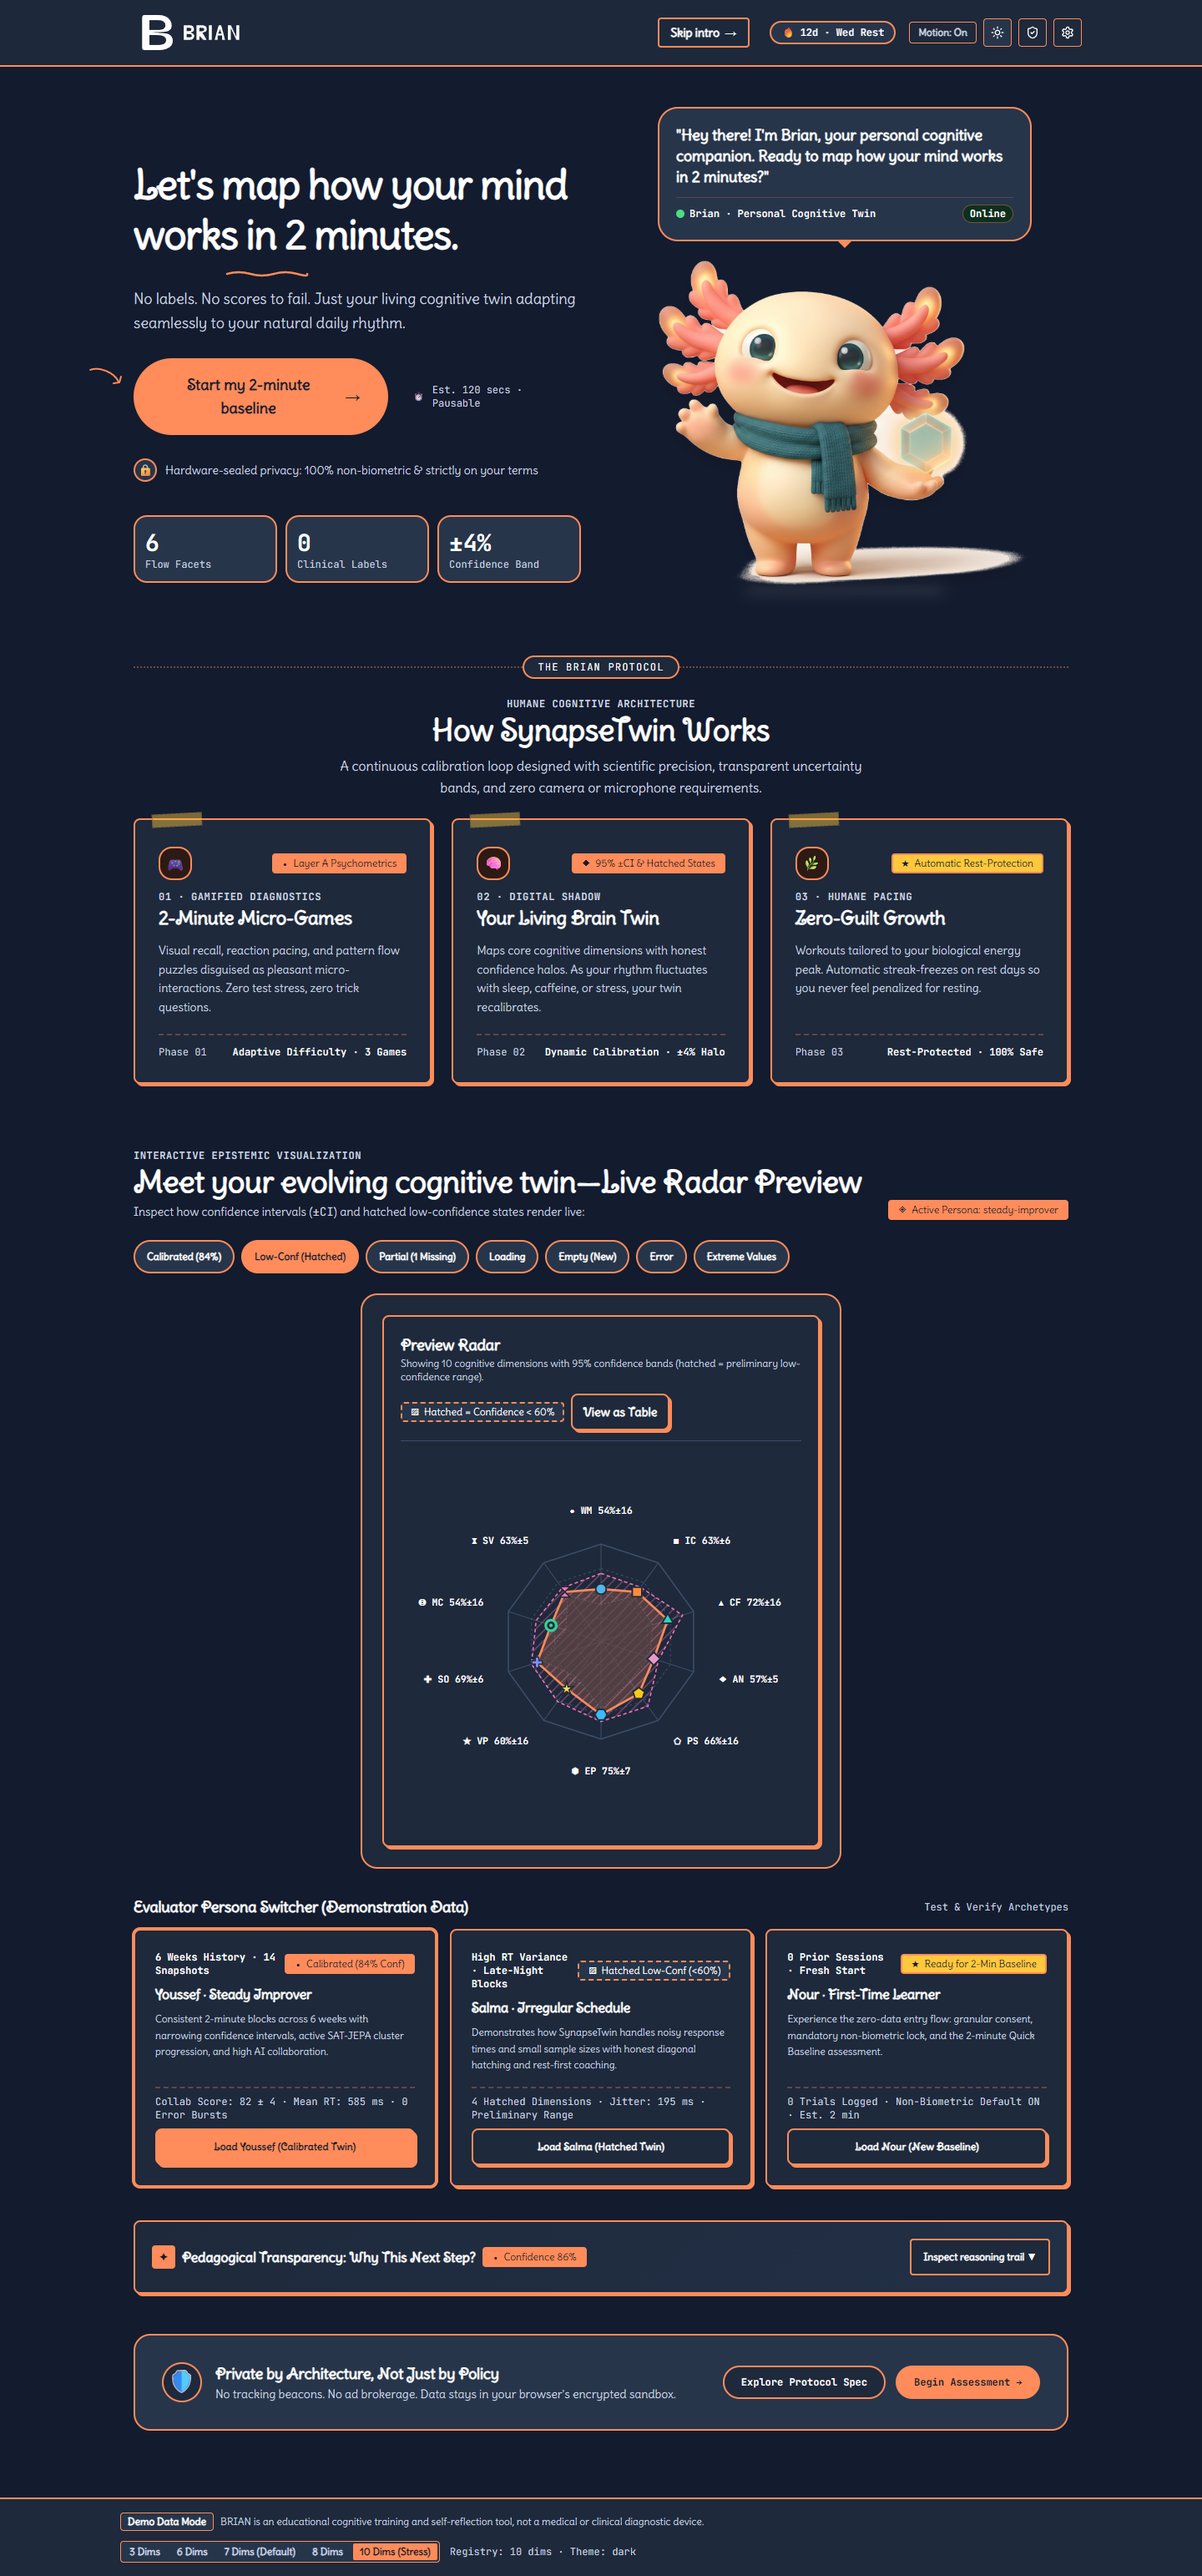
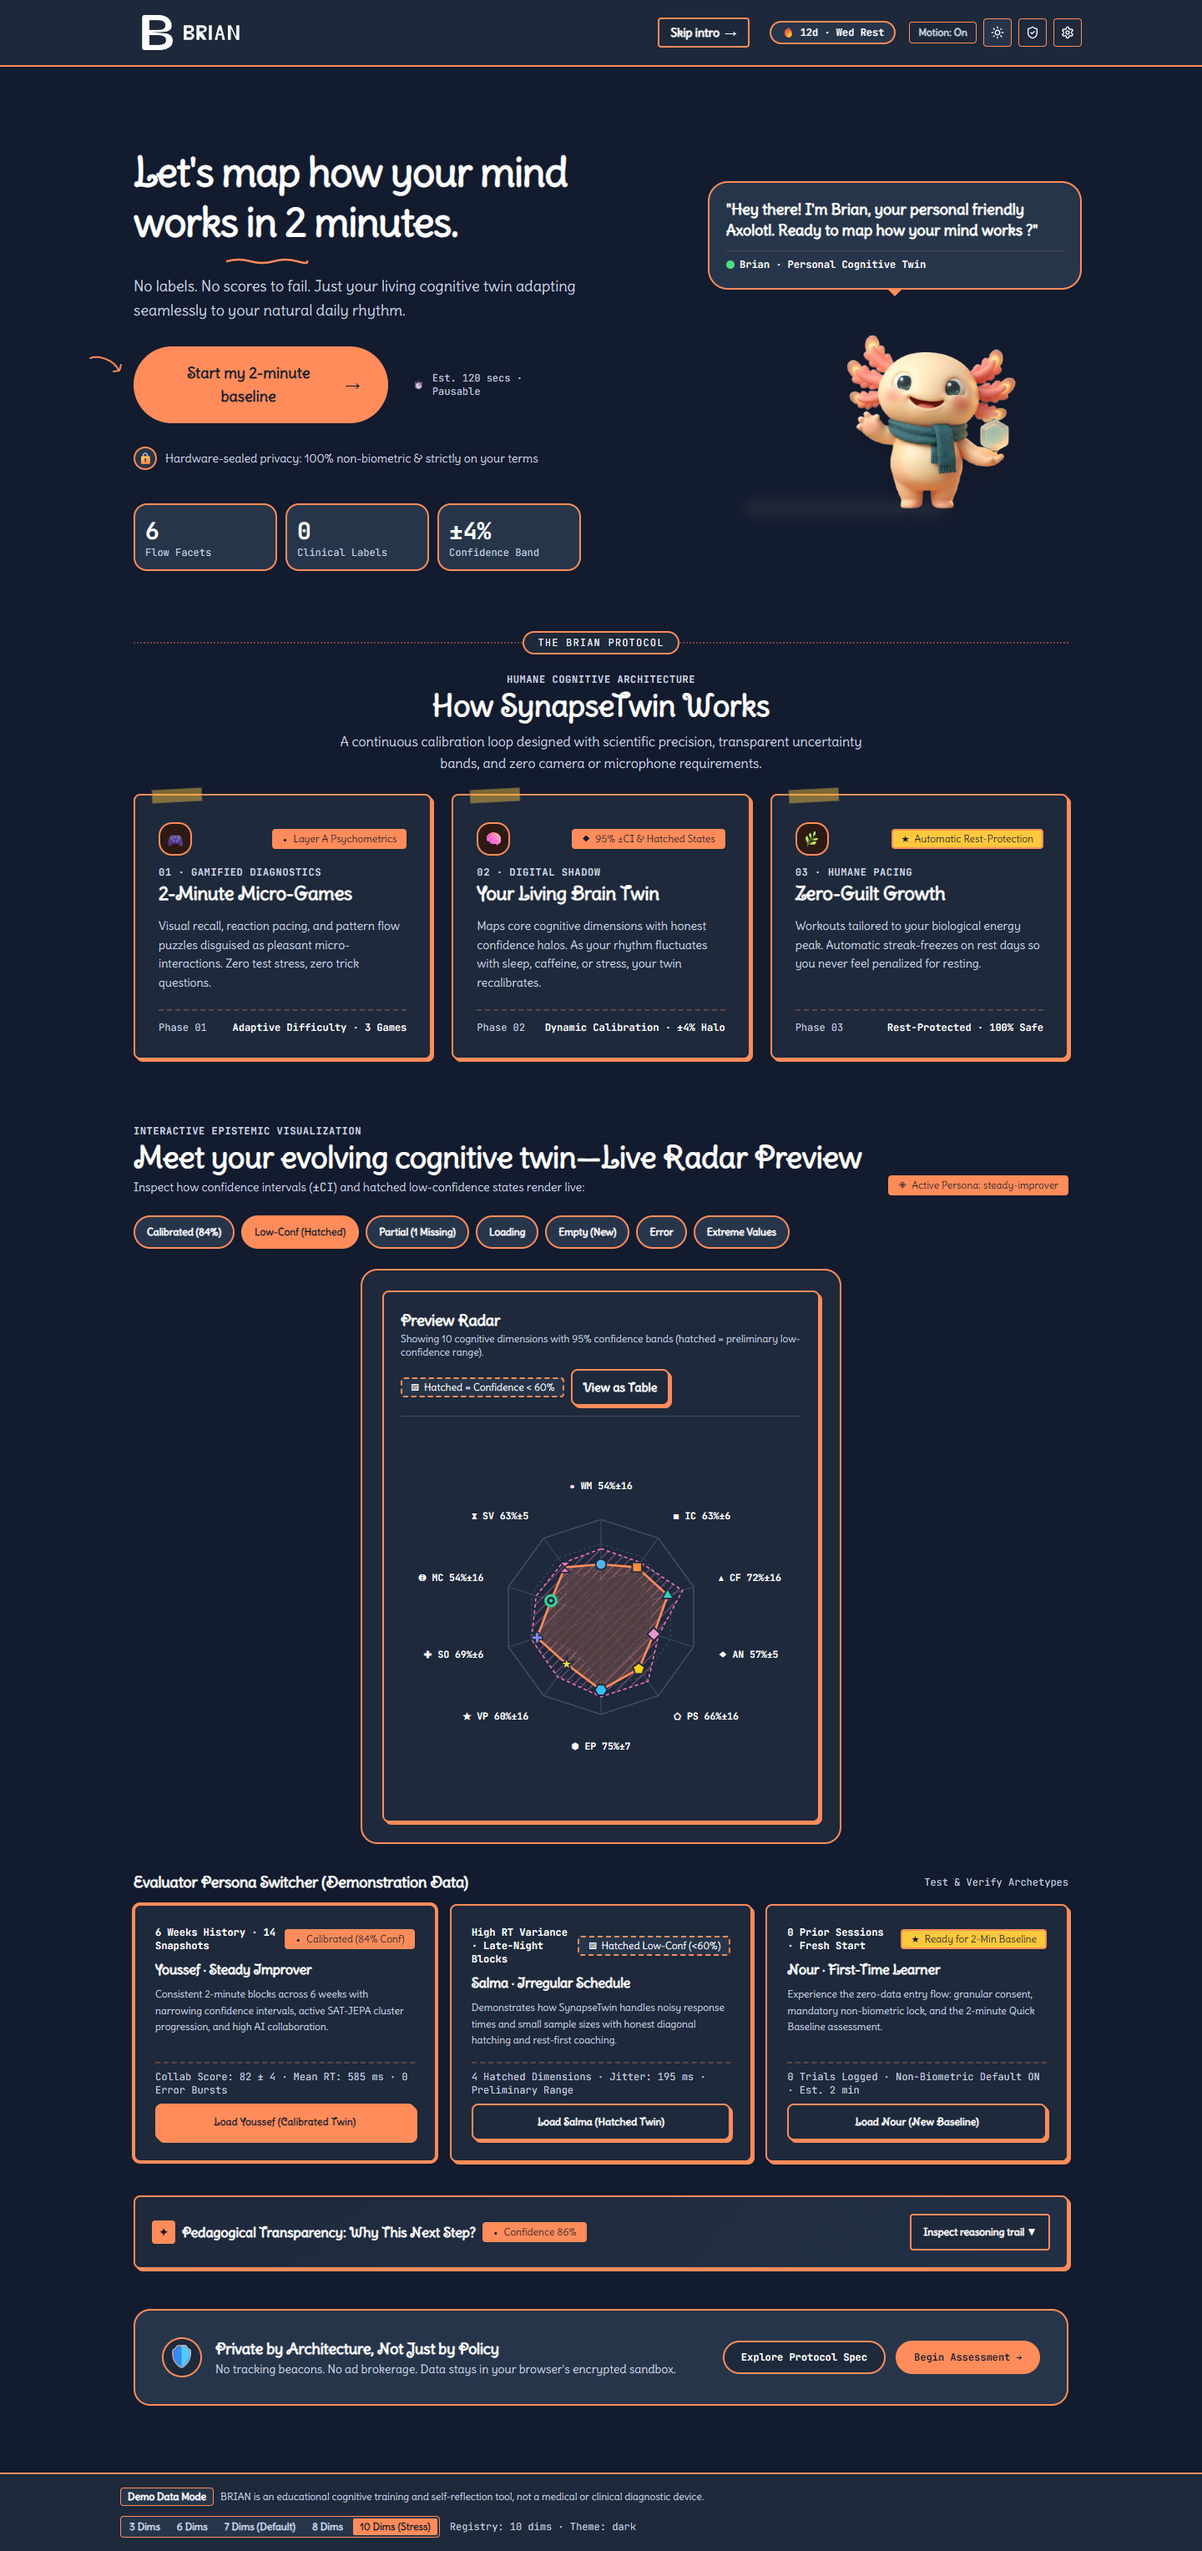
feat(welcome): update mascot to brian-waving-nobg and confirm badge removal

diff --git a/frontend/src/pages/WelcomePage.tsx b/frontend/src/pages/WelcomePage.tsx
@@ -12,7 +12,7 @@ import { Badge } from '../components/ui/Badge'
 import { Button } from '../components/ui/Button'
 import { Card } from '../components/ui/Card'
 import { DoodleSquiggle, DoodleArrow } from '../components/ui/DoodleDecorations'
-import brianWavingImg from '../assets/mascot/brian-waving.png'
+import brianWavingImg from '../assets/mascot/brian-waving-nobg.png'
 
 type HeroPreviewState =
   | 'calibrated'
@@ -266,18 +266,16 @@ export default function WelcomePage() {
         <div className="lg:col-span-6 relative flex flex-col items-center justify-center pt-2">
           <div className="relative w-full max-w-lg mx-auto flex flex-col items-center">
             {/* Brian's Aesthetic Speech Bubble */}
-            <div className="relative mb-3 sm:mb-4 max-w-md w-full bg-surface-raised p-4 sm:p-5 rounded-3xl border-2 border-border-strong shadow-doodle transition-all hover:-translate-y-0.5">
+            <div className="relative mb-3 sm:mb-4 max-w-md w-full bg-surface-raised p-4 sm:p-5 rounded-3xl border-2 border-border-strong shadow-doodle transition-all hover:-translate-y-0.5" style={{ transform: 'translate(60px, 20px)' }}>
               <p className="font-sans text-base sm:text-lg text-ink font-semibold leading-snug">
-                "Hey there! I'm Brian, your personal cognitive companion. Ready to map how your mind works in 2 minutes?"
+                "Hey there! I'm Brian, your personal friendly Axolotl. Ready to map how your mind works ?"
               </p>
               <div className="mt-3 flex items-center justify-between font-mono text-xs text-ink-muted pt-2 border-t border-border-strong/20">
                 <span className="flex items-center gap-1.5 font-semibold text-ink">
                   <span className="w-2.5 h-2.5 rounded-pill bg-success animate-pulse" />
                   Brian · Personal Cognitive Twin
                 </span>
-                <span className="px-2 py-0.5 rounded-pill bg-success-subtle text-ink font-bold text-xs border border-border-strong/40">
-                  Online
-                </span>
+
               </div>
               {/* Tactical Speech Pointer pointing down towards Brian */}
               <div
@@ -298,7 +296,8 @@ export default function WelcomePage() {
               <img
                 src={brianWavingImg}
                 alt="Brian the Axolotl mascot waving cheerfully"
-                className="w-full max-w-[360px] sm:max-w-[420px] lg:max-w-[460px] h-auto object-contain drop-shadow-xl select-none transition-transform duration-300 hover:scale-105"
+                style={{ transform: 'translate(100px, 25px)' }}
+                className="w-full max-w-[360px] sm:max-w-[420px] lg:max-w-[480px] h-auto object-contain drop-shadow-xl select-none transition-transform duration-300 hover:scale-105"
               />
 
               {/* Subtle grounding contact shadow */}
@@ -393,163 +392,163 @@ export default function WelcomePage() {
         aria-labelledby="radar-preview-heading"
         className="pt-6 space-y-6"
       >
-    <div className="flex flex-wrap items-end justify-between gap-3">
-      <div>
-        <span className="font-mono text-xs font-bold uppercase tracking-wider text-ink-muted">
-          Interactive Epistemic Visualization
-        </span>
-        <h2
-          id="radar-preview-heading"
-          className="font-display text-2xl sm:text-3xl font-bold text-ink"
+        <div className="flex flex-wrap items-end justify-between gap-3">
+          <div>
+            <span className="font-mono text-xs font-bold uppercase tracking-wider text-ink-muted">
+              Interactive Epistemic Visualization
+            </span>
+            <h2
+              id="radar-preview-heading"
+              className="font-display text-2xl sm:text-3xl font-bold text-ink"
+            >
+              Meet your evolving cognitive twin—Live Radar Preview
+            </h2>
+            <p className="text-sm text-ink-muted mt-1">
+              Inspect how confidence intervals (<code className="font-mono">±CI</code>) and hatched low-confidence states render live:
+            </p>
+          </div>
+          <Badge tone="brand" glyph="◈">
+            Active Persona: {activePersona}
+          </Badge>
+        </div>
+
+        {/* Interactive Preview State Switcher Buttons */}
+        <div
+          role="group"
+          aria-label="Hero Brain Twin preview state switcher"
+          className="flex flex-wrap gap-2"
         >
-          Meet your evolving cognitive twin—Live Radar Preview
-        </h2>
-        <p className="text-sm text-ink-muted mt-1">
-          Inspect how confidence intervals (<code className="font-mono">±CI</code>) and hatched low-confidence states render live:
-        </p>
-      </div>
-      <Badge tone="brand" glyph="◈">
-        Active Persona: {activePersona}
-      </Badge>
-    </div>
+          {(
+            [
+              { id: 'calibrated', label: 'Calibrated (84%)' },
+              { id: 'low-confidence', label: 'Low-Conf (Hatched)' },
+              { id: 'partial', label: 'Partial (1 Missing)' },
+              { id: 'loading', label: 'Loading' },
+              { id: 'empty', label: 'Empty (New)' },
+              { id: 'error', label: 'Error' },
+              { id: 'extreme-text', label: 'Extreme Values' },
+            ] as const
+          ).map((tab) => (
+            <button
+              key={tab.id}
+              type="button"
+              aria-pressed={previewState === tab.id}
+              onClick={() => setPreviewState(tab.id)}
+              className={`focus-ring min-h-10 px-3.5 py-1.5 rounded-pill border-2 border-border-strong text-xs font-bold cursor-pointer transition-colors shadow-doodle-sm ${previewState === tab.id
+                ? 'bg-brand text-brand-ink'
+                : 'bg-surface-raised text-ink hover:bg-brand-subtle'
+                }`}
+            >
+              {tab.label}
+            </button>
+          ))}
+        </div>
 
-  {/* Interactive Preview State Switcher Buttons */ }
-  <div
-    role="group"
-    aria-label="Hero Brain Twin preview state switcher"
-    className="flex flex-wrap gap-2"
-  >
-    {(
-      [
-        { id: 'calibrated', label: 'Calibrated (84%)' },
-        { id: 'low-confidence', label: 'Low-Conf (Hatched)' },
-        { id: 'partial', label: 'Partial (1 Missing)' },
-        { id: 'loading', label: 'Loading' },
-        { id: 'empty', label: 'Empty (New)' },
-        { id: 'error', label: 'Error' },
-        { id: 'extreme-text', label: 'Extreme Values' },
-      ] as const
-    ).map((tab) => (
-      <button
-        key={tab.id}
-        type="button"
-        aria-pressed={previewState === tab.id}
-        onClick={() => setPreviewState(tab.id)}
-        className={`focus-ring min-h-10 px-3.5 py-1.5 rounded-pill border-2 border-border-strong text-xs font-bold cursor-pointer transition-colors shadow-doodle-sm ${previewState === tab.id
-            ? 'bg-brand text-brand-ink'
-            : 'bg-surface-raised text-ink hover:bg-brand-subtle'
-          }`}
-      >
-        {tab.label}
-      </button>
-    ))}
-  </div>
+        {/* Live Interactive Radar View */}
+        <div className="w-full max-w-xl mx-auto p-4 sm:p-6 bg-surface rounded-2xl border-2 border-border-strong shadow-doodle-lg">
+          <UncertaintyRadar
+            dimensions={activeDimensions}
+            estimates={estimates}
+            title="Preview Radar"
+          />
+        </div>
 
-  {/* Live Interactive Radar View */ }
-  <div className="w-full max-w-xl mx-auto p-4 sm:p-6 bg-surface rounded-2xl border-2 border-border-strong shadow-doodle-lg">
-    <UncertaintyRadar
-      dimensions={activeDimensions}
-      estimates={estimates}
-      title="Preview Radar"
-    />
-  </div>
+        {/* Evaluator Persona Launchers Grid */}
+        <div className="space-y-3 pt-2">
+          <div className="flex items-center justify-between">
+            <h3 className="font-display text-lg font-bold text-ink">
+              Evaluator Persona Switcher (Demonstration Data)
+            </h3>
+            <span className="text-xs text-ink-muted font-mono">
+              Test &amp; Verify Archetypes
+            </span>
+          </div>
 
-  {/* Evaluator Persona Launchers Grid */ }
-  <div className="space-y-3 pt-2">
-    <div className="flex items-center justify-between">
-      <h3 className="font-display text-lg font-bold text-ink">
-        Evaluator Persona Switcher (Demonstration Data)
-      </h3>
-      <span className="text-xs text-ink-muted font-mono">
-        Test &amp; Verify Archetypes
-      </span>
-    </div>
+          <div className="grid grid-cols-1 md:grid-cols-3 gap-4">
+            {PERSONA_CARDS.map((card) => {
+              const isCurrent = activePersona === card.id
+              return (
+                <Card
+                  key={card.id}
+                  className={`p-5 flex flex-col justify-between gap-4 border-2 border-border-strong shadow-doodle transition-all ${isCurrent ? 'bg-brand-subtle/50 ring-2 ring-brand' : ''
+                    }`}
+                >
+                  <div className="space-y-2">
+                    <div className="flex items-center justify-between gap-2">
+                      <span className="font-mono text-xs font-bold text-ink">
+                        {card.roleLabel}
+                      </span>
+                      <Badge tone={card.badgeTone} glyph={card.badgeGlyph}>
+                        {card.badgeLabel}
+                      </Badge>
+                    </div>
+                    <h4 className="font-display text-base font-bold text-ink">
+                      {card.name}
+                    </h4>
+                    <p className="text-xs text-ink-muted leading-relaxed">
+                      {card.summary}
+                    </p>
+                  </div>
 
-    <div className="grid grid-cols-1 md:grid-cols-3 gap-4">
-      {PERSONA_CARDS.map((card) => {
-        const isCurrent = activePersona === card.id
-        return (
-          <Card
-            key={card.id}
-            className={`p-5 flex flex-col justify-between gap-4 border-2 border-border-strong shadow-doodle transition-all ${isCurrent ? 'bg-brand-subtle/50 ring-2 ring-brand' : ''
-              }`}
+                  <div className="space-y-2 pt-2 border-t-2 border-dashed border-border-strong/30">
+                    <p className="font-mono text-xs text-ink-muted">
+                      {card.metricsLine}
+                    </p>
+                    <Button
+                      variant={isCurrent ? 'primary' : 'secondary'}
+                      size="sm"
+                      className="w-full text-xs font-bold"
+                      onClick={() => handleSelectPersona(card)}
+                    >
+                      {card.ctaLabel}
+                    </Button>
+                  </div>
+                </Card>
+              )
+            })}
+          </div>
+        </div>
+
+        {/* WhyThis Pedagogical Transparency Panel */}
+        <div className="pt-4">
+          <WhyThisPanel
+            trail={SAMPLE_WHY_THIS_TRAIL}
+            title="Pedagogical Transparency: Why This Next Step?"
+            defaultExpanded={false}
+          />
+        </div>
+      </section>
+
+      {/* Bottom Reassurance Dock */}
+      <div className="bg-surface-raised rounded-2xl p-6 sm:p-8 flex flex-col md:flex-row items-center justify-between gap-6 border-2 border-border-strong shadow-doodle-lg">
+        <div className="flex items-center gap-4">
+          <div className="w-12 h-12 rounded-pill bg-surface border-2 border-border-strong flex items-center justify-center text-brand text-2xl shadow-doodle-sm shrink-0">
+            🛡
+          </div>
+          <div>
+            <h4 className="font-display text-lg font-bold text-ink">
+              Private by Architecture, Not Just by Policy
+            </h4>
+            <p className="text-xs sm:text-sm text-ink-muted">
+              No tracking beacons. No ad brokerage. Data stays in your browser's encrypted sandbox.
+            </p>
+          </div>
+        </div>
+        <div className="flex items-center gap-3 w-full md:w-auto">
+          <Link
+            to="/privacy"
+            className="w-full md:w-auto px-5 py-2.5 rounded-pill bg-surface text-ink font-mono text-xs font-bold hover:bg-brand-subtle transition-colors border-2 border-border-strong shadow-doodle-sm text-center no-underline"
           >
-            <div className="space-y-2">
-              <div className="flex items-center justify-between gap-2">
-                <span className="font-mono text-xs font-bold text-ink">
-                  {card.roleLabel}
-                </span>
-                <Badge tone={card.badgeTone} glyph={card.badgeGlyph}>
-                  {card.badgeLabel}
-                </Badge>
-              </div>
-              <h4 className="font-display text-base font-bold text-ink">
-                {card.name}
-              </h4>
-              <p className="text-xs text-ink-muted leading-relaxed">
-                {card.summary}
-              </p>
-            </div>
-
-            <div className="space-y-2 pt-2 border-t-2 border-dashed border-border-strong/30">
-              <p className="font-mono text-xs text-ink-muted">
-                {card.metricsLine}
-              </p>
-              <Button
-                variant={isCurrent ? 'primary' : 'secondary'}
-                size="sm"
-                className="w-full text-xs font-bold"
-                onClick={() => handleSelectPersona(card)}
-              >
-                {card.ctaLabel}
-              </Button>
-            </div>
-          </Card>
-        )
-      })}
-    </div>
-  </div>
-
-      {/* WhyThis Pedagogical Transparency Panel */}
-      <div className="pt-4">
-        <WhyThisPanel
-          trail={SAMPLE_WHY_THIS_TRAIL}
-          title="Pedagogical Transparency: Why This Next Step?"
-          defaultExpanded={false}
-        />
-      </div>
-    </section>
-
-    {/* Bottom Reassurance Dock */}
-    <div className="bg-surface-raised rounded-2xl p-6 sm:p-8 flex flex-col md:flex-row items-center justify-between gap-6 border-2 border-border-strong shadow-doodle-lg">
-      <div className="flex items-center gap-4">
-        <div className="w-12 h-12 rounded-pill bg-surface border-2 border-border-strong flex items-center justify-center text-brand text-2xl shadow-doodle-sm shrink-0">
-          🛡
-        </div>
-        <div>
-          <h4 className="font-display text-lg font-bold text-ink">
-            Private by Architecture, Not Just by Policy
-          </h4>
-          <p className="text-xs sm:text-sm text-ink-muted">
-            No tracking beacons. No ad brokerage. Data stays in your browser's encrypted sandbox.
-          </p>
+            Explore Protocol Spec
+          </Link>
+          <Link
+            to="/assessment"
+            className="w-full md:w-auto px-5 py-2.5 rounded-pill bg-brand text-brand-ink font-mono text-xs font-bold hover:opacity-90 transition-opacity border-2 border-border-strong shadow-doodle-sm text-center no-underline"
+          >
+            Begin Assessment →
+          </Link>
         </div>
       </div>
-      <div className="flex items-center gap-3 w-full md:w-auto">
-        <Link
-          to="/privacy"
-          className="w-full md:w-auto px-5 py-2.5 rounded-pill bg-surface text-ink font-mono text-xs font-bold hover:bg-brand-subtle transition-colors border-2 border-border-strong shadow-doodle-sm text-center no-underline"
-        >
-          Explore Protocol Spec
-        </Link>
-        <Link
-          to="/assessment"
-          className="w-full md:w-auto px-5 py-2.5 rounded-pill bg-brand text-brand-ink font-mono text-xs font-bold hover:opacity-90 transition-opacity border-2 border-border-strong shadow-doodle-sm text-center no-underline"
-        >
-          Begin Assessment →
-        </Link>
-      </div>
     </div>
-  </div>
   )
 }
